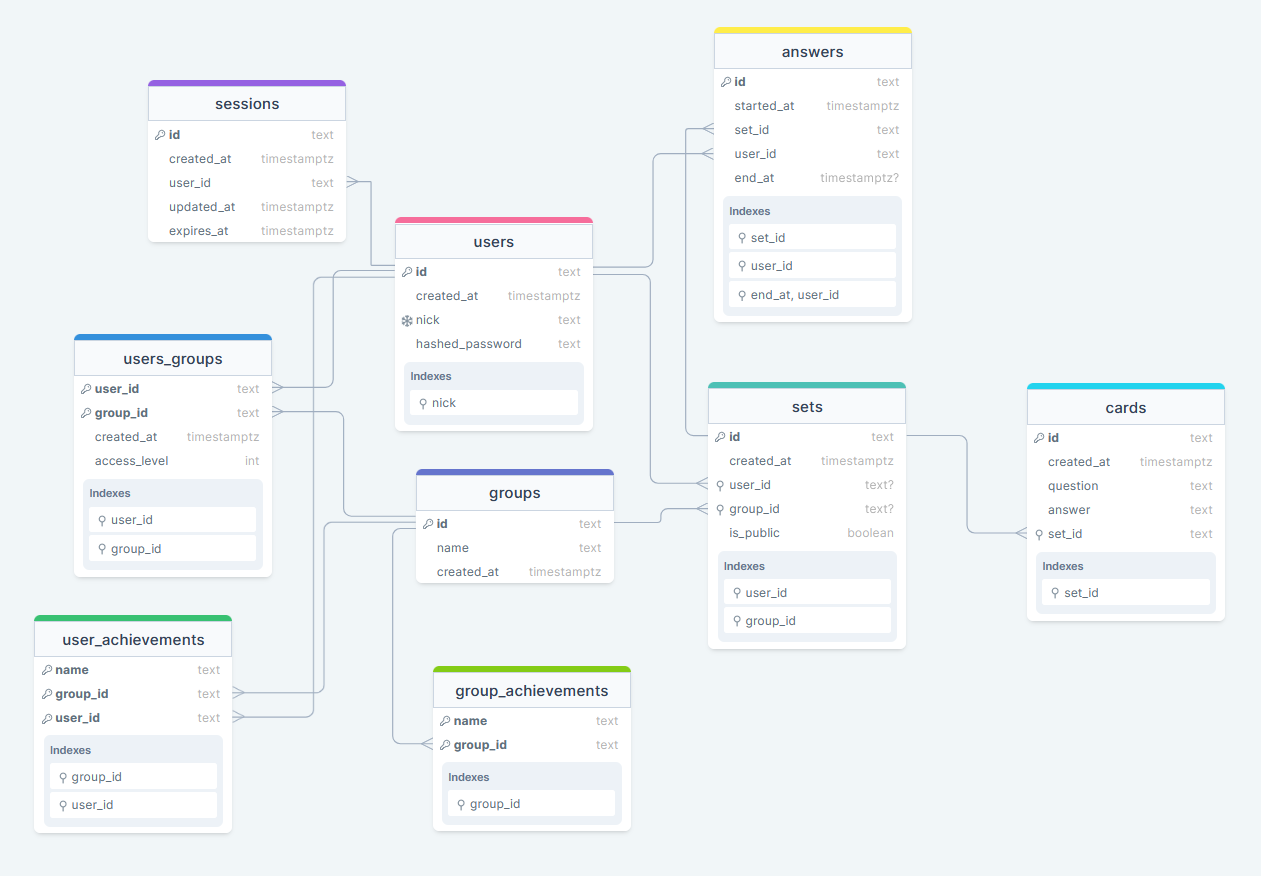
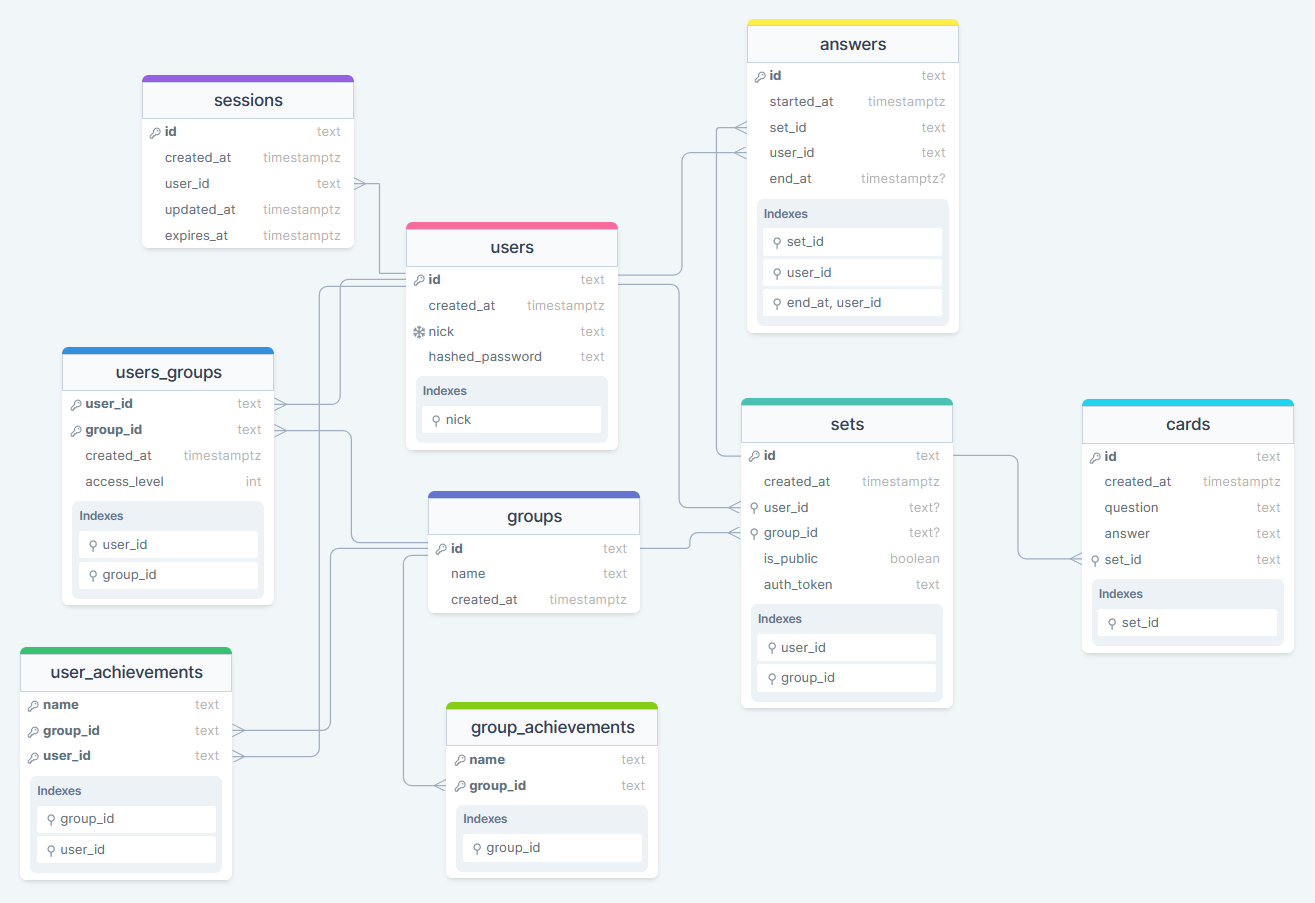
add set cloning and sharing

diff --git a/src/main/java/wmii/jwzp/flashcards/controller/FlashcardSetController.java b/src/main/java/wmii/jwzp/flashcards/controller/FlashcardSetController.java
@@ -15,6 +15,7 @@ import org.springframework.web.bind.annotation.PatchMapping;
 import org.springframework.web.bind.annotation.PathVariable;
 import org.springframework.web.bind.annotation.PostMapping;
 import org.springframework.web.bind.annotation.RequestBody;
+import org.springframework.web.bind.annotation.RequestHeader;
 import org.springframework.web.bind.annotation.RequestMapping;
 import org.springframework.web.bind.annotation.RequestParam;
 import org.springframework.web.bind.annotation.RestController;
@@ -35,6 +36,7 @@ import wmii.jwzp.flashcards.service.StudyGroupService;
 import wmii.jwzp.flashcards.service.UserGroupLinkService;
 import wmii.jwzp.flashcards.service.UserService;
 import wmii.jwzp.flashcards.utils.AccessLevels;
+import wmii.jwzp.flashcards.utils.errors.ResourceConflict;
 
 @RestController
 @RequestMapping("/flashcard_sets")
@@ -93,13 +95,26 @@ public class FlashcardSetController {
 
   @GetMapping("/{set_id}")
   public ResponseEntity<FlashcardSetResponse> getSet(@CookieValue(name = "sid", required = false) String authToken,
+      @PathVariable("set_id") String setId, @RequestHeader(name = "auth_token", required = false) String authHeader) {
+    var user = authToken != null ? userService.getUserBySessionToken(authToken) : null;
+    var flashcardSet = setService.getSet(setId);
+
+    setService.verifyUserAction(user, flashcardSet, AccessLevels.GUEST, authHeader);
+
+    var response = new FlashcardSetResponse(flashcardSet);
+    return ResponseEntity.ok(response);
+  }
+
+  @GetMapping("/{set_id}/share")
+  public ResponseEntity<String> getAuthToken(
+      @CookieValue("sid") String authToken,
       @PathVariable("set_id") String setId) {
     var user = authToken != null ? userService.getUserBySessionToken(authToken) : null;
     var flashcardSet = setService.getSet(setId);
 
-    setService.verifyUserAction(user, flashcardSet, AccessLevels.GUEST);
+    setService.verifyUserAction(user, flashcardSet, AccessLevels.ADMIN);
 
-    var response = new FlashcardSetResponse(flashcardSet);
+    var response = flashcardSet.getAuthToken();
     return ResponseEntity.ok(response);
   }
 
@@ -131,16 +146,33 @@ public class FlashcardSetController {
     return ResponseEntity.ok(response);
   }
 
+  @PostMapping("/{set_id}/clone")
+  public ResponseEntity<FlashcardSetResponse> cloneSet(@CookieValue("sid") String authToken,
+      @PathVariable("set_id") String setId, @RequestHeader(name = "auth_token", required = false) String authHeader) {
+    var user = userService.getUserBySessionToken(authToken);
+    var flashcardSet = setService.getSet(setId);
+
+    setService.verifyUserAction(user, flashcardSet, AccessLevels.GUEST, authHeader);
+    if (flashcardSet.getUserId() == user.getId()) {
+      throw new ResourceConflict("User already cloned this set.");
+    }
+    flashcardSet = setService.cloneSet(flashcardSet, user);
+
+    var response = new FlashcardSetResponse(flashcardSet);
+    return ResponseEntity.ok(response);
+  }
+
   @GetMapping("/{set_id}/cards")
   public ResponseEntity<List<CardResponse>> getCards(@CookieValue(name = "sid", required = false) String authToken,
-      @PathVariable("set_id") String setId, @RequestParam(name = "start_entry", required = false) String startEntry) {
+      @PathVariable("set_id") String setId, @RequestParam(name = "start_entry", required = false) String startEntry,
+      @RequestHeader(name = "auth_token", required = false) String authHeader) {
     var user = authToken != null ? userService.getUserBySessionToken(authToken) : null;
     var flashcardSet = setService.getSet(setId);
-    setService.verifyUserAction(user, flashcardSet, AccessLevels.GUEST);
+    setService.verifyUserAction(user, flashcardSet, AccessLevels.GUEST, authHeader);
 
     var cards = cardService.getCards(flashcardSet);
 
-    if ("true".equals(startEntry)) {
+    if (user != null && "true".equals(startEntry)) {
       answerService.startEntry(user, flashcardSet);
     }
 

diff --git a/src/main/java/wmii/jwzp/flashcards/service/FlashcardSetService.java b/src/main/java/wmii/jwzp/flashcards/service/FlashcardSetService.java
@@ -8,6 +8,7 @@ import org.slf4j.LoggerFactory;
 import org.springframework.beans.factory.annotation.Autowired;
 import org.springframework.stereotype.Service;
 
+import wmii.jwzp.flashcards.model.api.input.CardInput;
 import wmii.jwzp.flashcards.model.api.input.SetCreationInput;
 import wmii.jwzp.flashcards.model.api.input.SetUpdateInput;
 import wmii.jwzp.flashcards.model.db.FlashcardSetModel;
@@ -45,6 +46,20 @@ public class FlashcardSetService {
     }
   }
 
+  public void verifyUserAction(UserModel user, FlashcardSetModel flashcardSet, int requiredAccess, String authHeader) {
+    if (authHeader == flashcardSet.getAuthToken()) {
+      return;
+    }
+    if (flashcardSet.getGroupId() != null) {
+      var group = groupService.getGroupById(flashcardSet.getGroupId());
+      userGroupLinkService.verifyUserAction(user, group, requiredAccess);
+    } else {
+      if (!flashcardSet.isPublic() && !user.getId().equals(flashcardSet.getUserId())) {
+        throw new Unauthorized("User is not allowed to perform this action");
+      }
+    }
+  }
+
   public FlashcardSetModel createSet(SetCreationInput input, UserModel user) {
     var newSet = new FlashcardSetModel();
     String id = UUID.randomUUID().toString();
@@ -57,6 +72,7 @@ public class FlashcardSetService {
     }
     newSet.setName(input.name);
     newSet.setIsPublic(input.is_public != null ? input.is_public : false);
+    newSet.setAuthToken(UUID.randomUUID().toString());
 
     setRepository.save(newSet);
 
@@ -89,6 +105,31 @@ public class FlashcardSetService {
 
   public FlashcardSetModel removeSet(FlashcardSetModel flashcardSet) {
     setRepository.delete(flashcardSet);
+    return flashcardSet;
+  }
+
+  public FlashcardSetModel cloneSet(FlashcardSetModel flashcardSet, UserModel user) {
+    var newSet = new FlashcardSetModel();
+    String id = UUID.randomUUID().toString();
+    newSet.setId(id);
+    newSet.setCreatedAt();
+    newSet.setUserId(user.getId());
+    newSet.setName(flashcardSet.getName());
+    newSet.setIsPublic(flashcardSet.isPublic());
+
+    setRepository.save(newSet);
+
+    if (flashcardSet.getCards() != null && !flashcardSet.getCards().isEmpty()) {
+
+      flashcardSet.getCards().forEach(card -> {
+        var cardInput = new CardInput();
+        cardInput.question = card.getQuestion();
+        cardInput.answer = card.getAnswer();
+        cardService.createCard(cardInput, newSet);
+      });
+    }
+
+    setRepository.save(flashcardSet);
     return flashcardSet;
   }
 

diff --git a/src/main/java/wmii/jwzp/flashcards/model/db/FlashcardSetModel.java b/src/main/java/wmii/jwzp/flashcards/model/db/FlashcardSetModel.java
@@ -35,6 +35,17 @@ public class FlashcardSetModel {
   @Column(name = "name")
   private String name;
 
+  @Column(name = "auth_token")
+  private String authToken;
+
+  public String getAuthToken() {
+    return authToken;
+  }
+
+  public void setAuthToken(String authToken) {
+    this.authToken = authToken;
+  }
+
   @OneToMany(mappedBy = "flashcardSet", fetch = FetchType.LAZY)
   private List<CardModel> cards;
 

diff --git a/README.md b/README.md
@@ -8,17 +8,17 @@ General functionalities
 - user can create/join study group
 - each group has an administrator 
 
-- admin can create/select available achievements
+- admin can select available achievements
 - admin can kick people out of the group
 - admin can promote to admin
-- admin can define what each user can do (add/remove/modify sets)
+- admin can define what each user can do (group roles)
 
 - user can create private/public/group flashcard sets
 - user can study the flashcard set
 - user can share private flashcard set
 - user can clone/modify flashcard set
 
-- measuring best completion time, completion count for each card speed for each card etc.
+- measuring completion time, completion count for each set
 - user can get achievements in study group based on completion time or streaks
 
 
@@ -81,10 +81,12 @@ Classes for easy error throwing, authenticating, setting headers etc.
 | /study_groups/{group_id}/achievements/{achievement_name} | DELETE | yes | group admin | disable achievement |
 | /flashcard_sets | GET | no |  | returns public and user owned sets |
 | /flashcard_sets | POST | yes |  | create new set (owned by user) |
-| /flashcard_sets/{set_id} | GET | no* | set owner, group user or public set | return set info |
+| /flashcard_sets/{set_id} | GET | no* | set owner, group user, public set or shared | return set info |
 | /flashcard_sets/{set_id} | PATCH | yes | set owner or group admin | edit set info |
 | /flashcard_sets/{set_id} | DELETE | yes | set owner or group admin | remove set |
-| /flashcard_sets/{set_id}/cards | GET | no* | set owner, group user of public set | return cards in a set |
+| /flashcard_sets/{set_id}/cards | GET | no* | set owner, group user, public set or shared | return cards in a set |
+| /flashcard_sets/{set_id}/share | GET | yes | set owner or group admin | return auth token for sharing |
+| /flashcard_sets/{set_id}/clone | POST | yes | group user, public set or shared | clone set into user space |
 | /flashcard_sets/{set_id}/cards | POST | yes | set owner or group admin | add card to a set |
 | /flashcard_sets/{set_id}/cards/{card_id} | PATCH | yes | set owner or group admin | edit card |
 | /flashcard_sets/{set_id}/cards/{card_id} | DELETE | yes | set owner or group admin | remove card |
